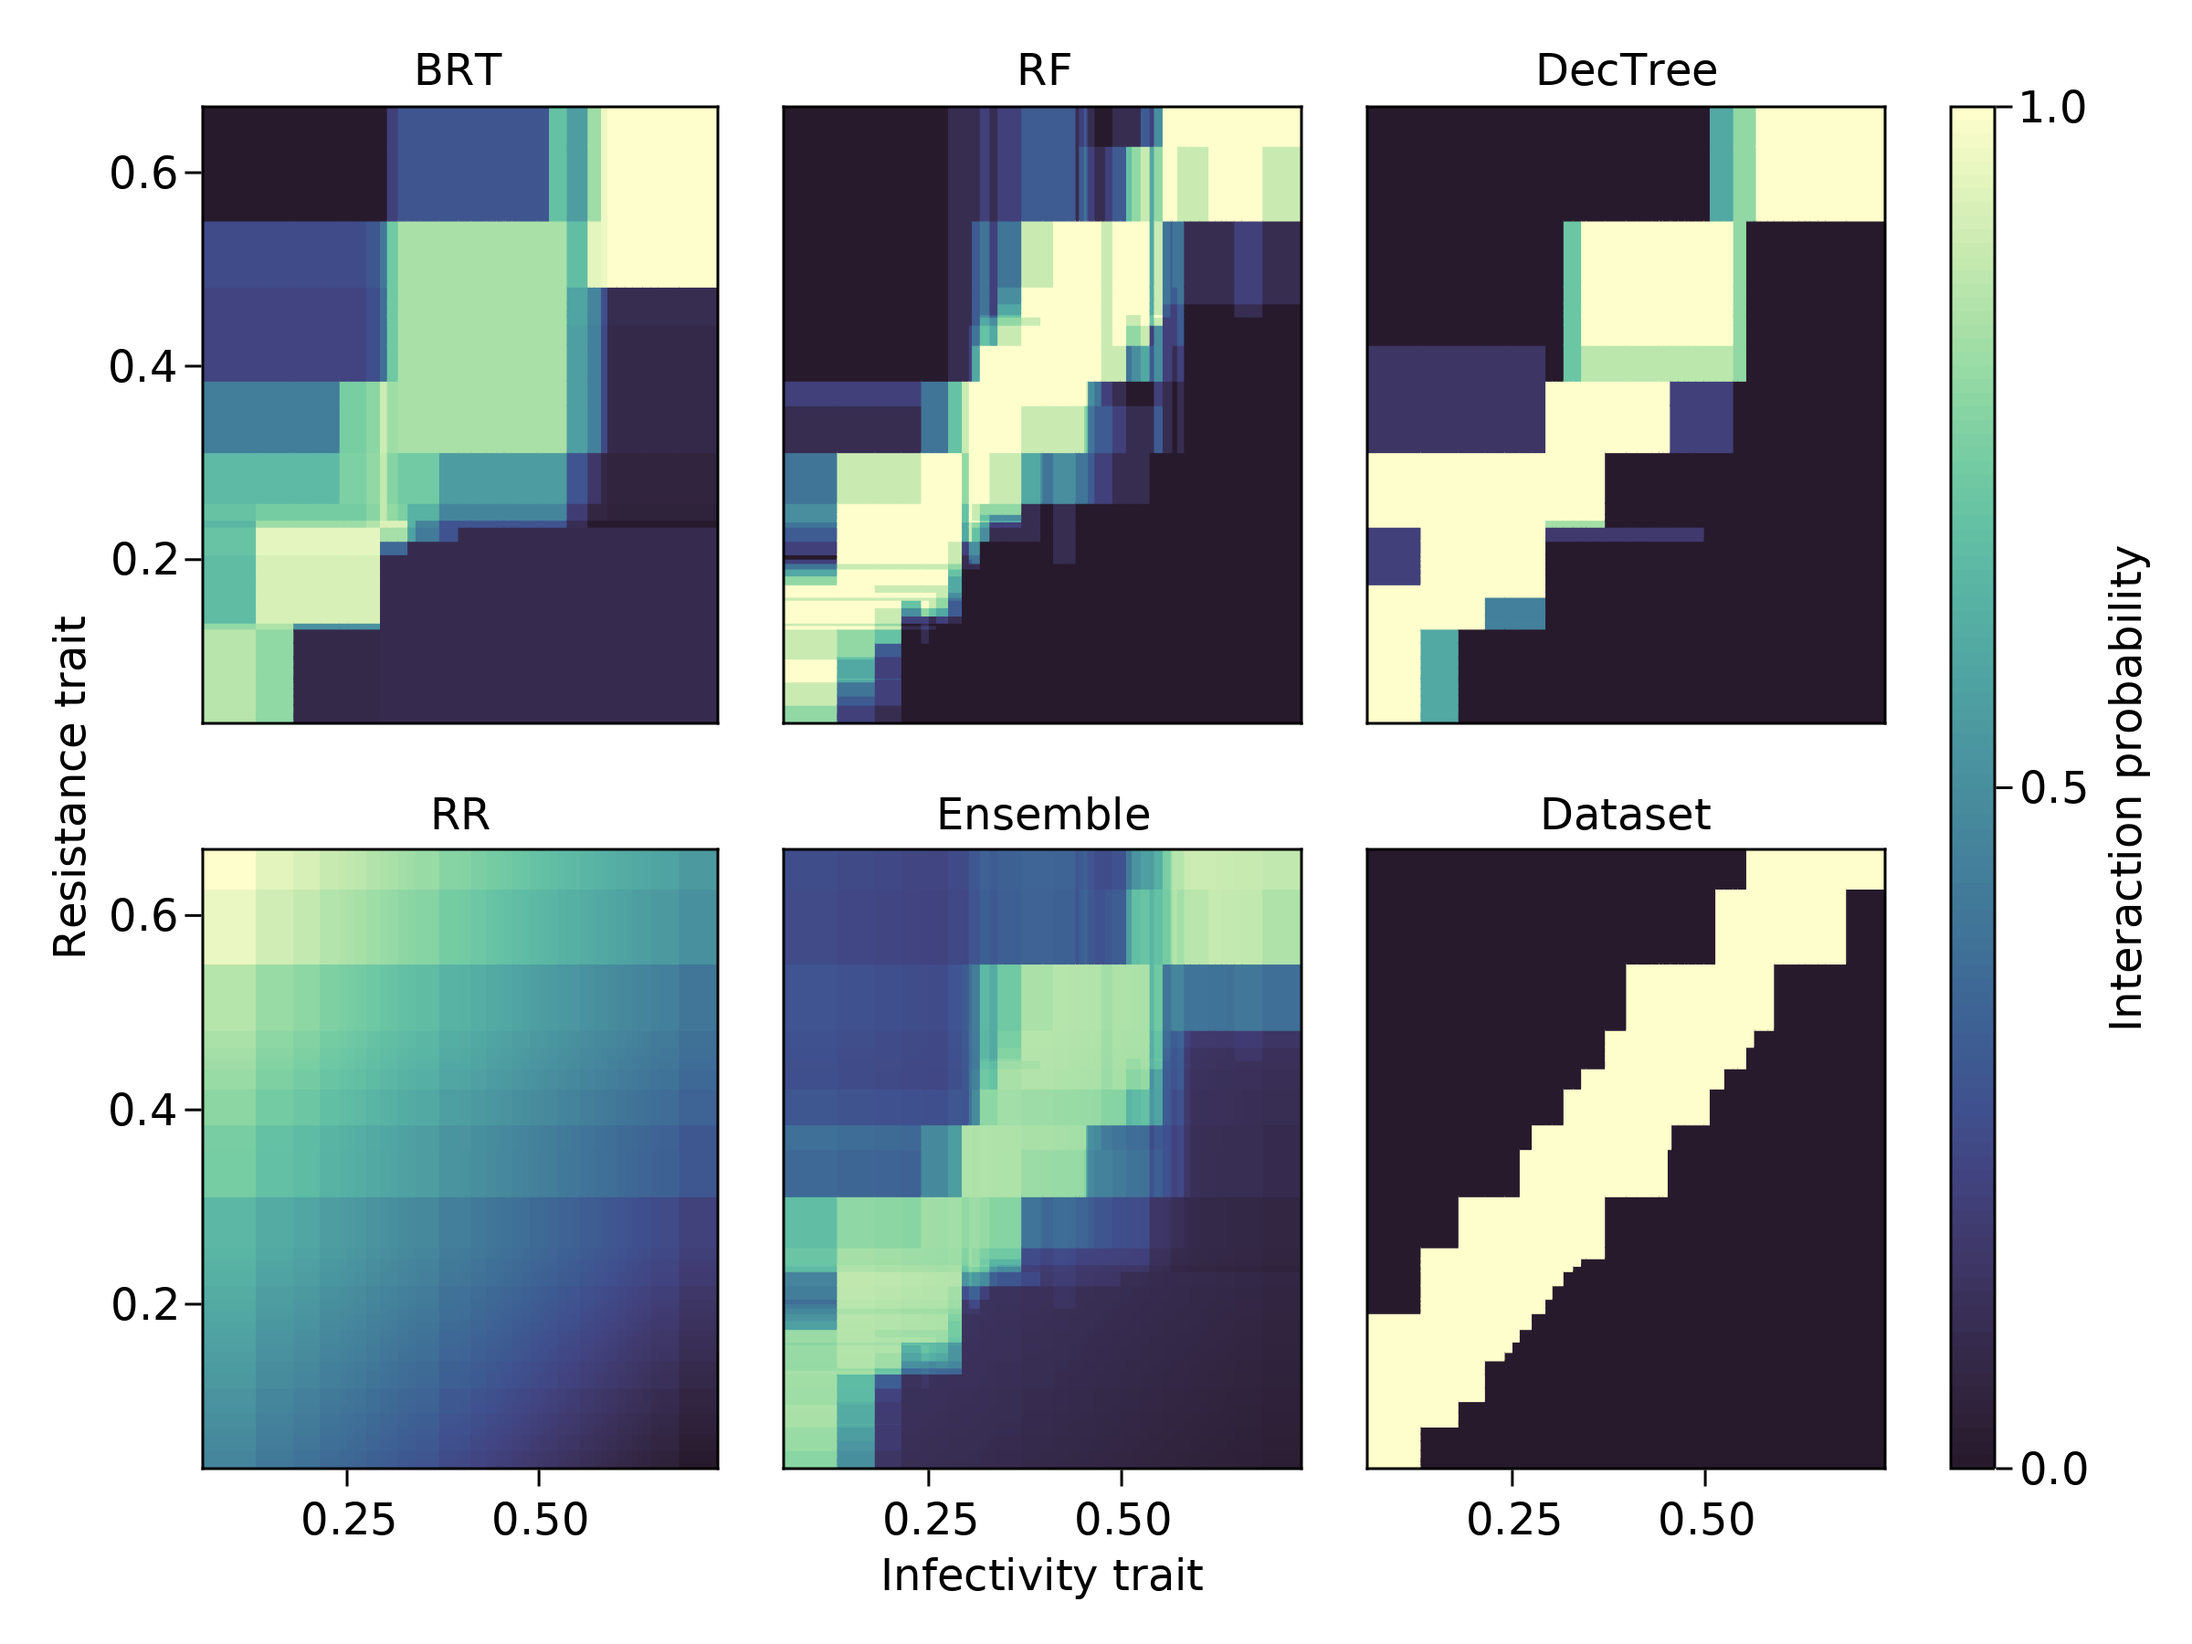
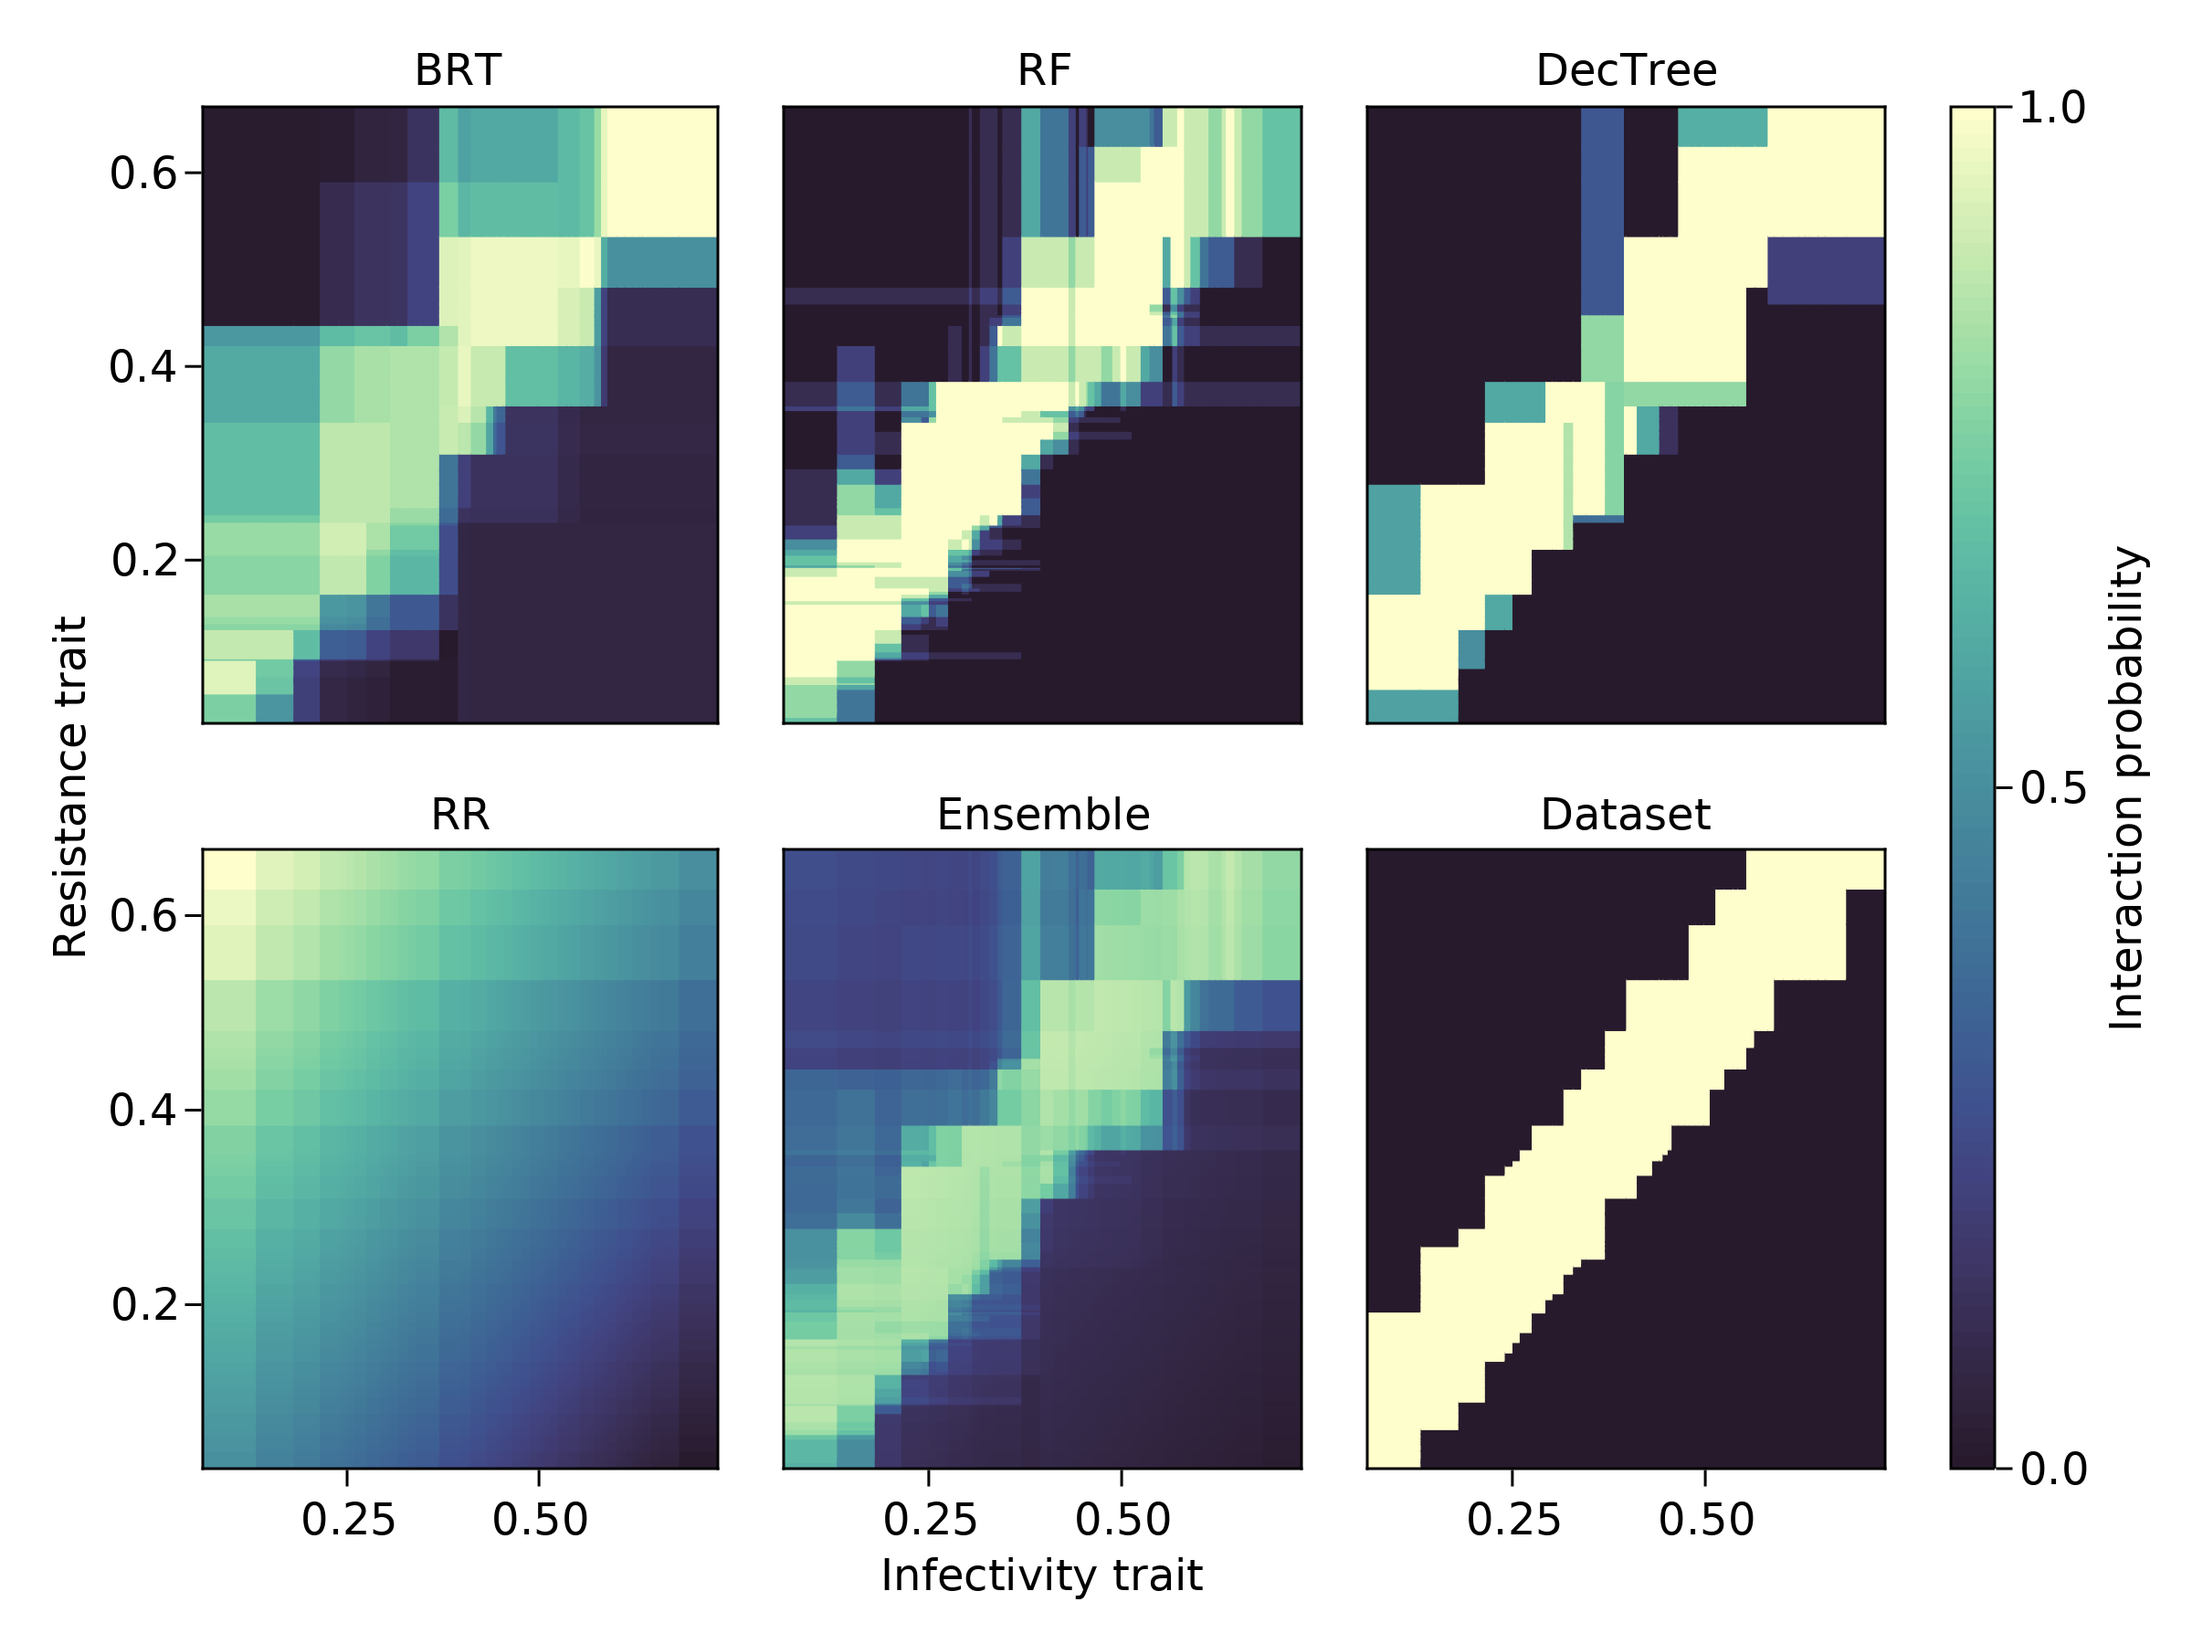
last section done, ccl and intro need updating

diff --git a/README.md b/README.md
@@ -91,15 +91,15 @@ Intro
 
 $\kappa$
 
-$F_{\beta}$
-
 informedness
 
 MCC
 
 ROC-AUC
 
-PR-AUC
+$F_{\beta}$
+
+PR-AUC - baseline is prevalence, wtf are recall and precision, you may ask?
 
 ## Confusion matrix with skill and bias
 
@@ -405,47 +405,52 @@ its components models.
 # Do better classification accuracy result in more realistic networks?
 
 In this last section, we generate a network using the same model as before, with
-$S = 50$ species, a connectance of $\approx 0.16$ ($\xi = 0.19$), and a training
-set bias of $0.7$. The prediction made on the complete dataset is presented in
-@fig:ecovalid. Visualizing the results this way highlights the importance of
-exploratory data analysis: whereas all models return a network with interactions
-laying mostly on the diagonal (as expected), the Ridge Regression is quite
-obviously biased. Despite this, we can see that the ensemble is close to the
-initial dataset.
+$S_1, S_2 = 50, 80$ species, a connectance of $\approx 0.16$ ($\xi = 0.19$), and
+a training set bias of $0.7$. The prediction made on the complete dataset is
+presented in @fig:ecovalid. Visualizing the results this way highlights the
+importance of exploratory data analysis: whereas all models return a network
+with interactions laying mostly on the diagonal (as expected), the Ridge
+Regression is quite obviously biased. Despite this, we can see that the ensemble
+is close to the initial dataset.
 
 ![TODO](figures/valid_ensemble.png){#fig:ecovalid}
 
 The trained models were then thresholded (again by optimising informedness), and
 their predictions transformed back into networks for analysis; specifically, we
-measured the connectance, nestedness (REF), and modularity (REF). The results
-are presented in @tbl:comparison. The random forest model is an interesting
-instance here: it produces the network that looks the most like the original
-dataset, despite having a very low PR-AUC, suggesting it hits high recall at the
-cost of low precision. Although the ensemble was about to reach a very high
-PR-AUC (and a very high ROC-AUC), this did not necessarilly translate into more
-accurate reconstructions of the structure of the network. This result bears
-elaborating. Measures of model performance capture how much of the interactions
-and non-interactions are correctly identified. As long as these predictions are
-not perfect, some interactions will be predicted at the "wrong" position in the
-network; these measures cannot describe the structural effect of these mistakes.
-On the other hand, measures of network structure can have the same value with
-interactions that fall at drastically different positions; this is in part
-because a lot of these measures covary with connectance, and in part because as
-long as these values are not 0 or their respective maximum, there is a large
-number of network configurations that can have the same value.
+measured the connectance, nestedness (REF), and modularity (REF). This process
+was repeated 250 times, and the results are presented in @tbl:comparison. The
+random forest model is an interesting instance here: it produces the network
+that looks the most like the original dataset, despite having a very low PR-AUC,
+suggesting it hits high recall at the cost of low precision. Although the
+ensemble was about to reach a very high PR-AUC (and a very high ROC-AUC), this
+did not necessarilly translate into more accurate reconstructions of the
+structure of the network. This result bears elaborating. Measures of model
+performance capture how much of the interactions and non-interactions are
+correctly identified. As long as these predictions are not perfect, some
+interactions will be predicted at the "wrong" position in the network; these
+measures cannot describe the structural effect of these mistakes. On the other
+hand, measures of network structure can have the same value with interactions
+that fall at drastically different positions; this is in part because a lot of
+these measures covary with connectance, and in part because as long as these
+values are not 0 or their respective maximum, there is a large number of network
+configurations that can have the same value. That ROC-AUC is consistently larger
+than PR-AUC may be a case of this measure masking models that are not,
+individually, strong predictors [@Jeni2013FacImb].
 
 |            Model |   MCC    |   Inf.   | ROC-AUC  |  PR-AUC  |  Conn.   |  $\eta$  |   $Q$    |
 | ---------------: | :------: | :------: | :------: | :------: | :------: | :------: | :------: |
-|    Decision tree |   0.83   |   0.68   |   0.95   |   0.15   |   0.18   |   0.53   | **0.49** |
-|              BRT |   0.76   |   0.89   |   0.95   |   0.65   |   0.22   |   0.63   |   0.43   |
-|    Random Forest | **0.89** | **0.94** | **0.99** |   0.41   | **0.17** | **0.48** | **0.49** |
-| Ridge Regression |   0.67   |   0.85   |   0.89   |   0.38   |   0.27   |   1.0    |   0.26   |
-|         Ensemble |   0.84   |   0.91   | **0.99** | **0.94** |   0.19   |   0.54   |   0.48   |
-|             Data |          |          |          |          |   0.16   |   0.45   |   0.49   |
+|    Decision tree |   0.85   |   0.92   |   0.97   |   0.12   |   0.21   |   0.76   |   0.31   |
+|              BRT |   0.90   |   0.90   |   0.98   |   0.86   |   0.23   |   0.82   |   0.27   |
+|    Random Forest | **0.90** | **0.96** | **1.00** |   0.27   | **0.20** | **0.72** | **0.32** |
+| Ridge Regression |   0.80   |   0.91   |   0.95   |   0.58   |   0.24   |   1.0    |   0.18   |
+|         Ensemble |   0.88   |   0.94   | **1.00** | **0.96** | **0.20** |   0.75   |   0.31   |
+|             Data |          |          |          |          |   0.18   |   0.66   |   0.34   |
 
 : Values of four performance metrics, and three network structure metrics, for
-the predictions presented in @fig:ecovalid. The values in **bold** indicate the
-best value for each column (including ties).  {#tbl:comparison}
+250 independent predictions similar to the ones presented in @fig:ecovalid. The
+values in **bold** indicate the best value for each column (including ties).
+Because the values have been rounded, values of 1.0 for the ROC-AUC column
+indicate an average $\ge 0.99$. {#tbl:comparison}
 
 # Guidelines for the assesment of network predictive models
 
